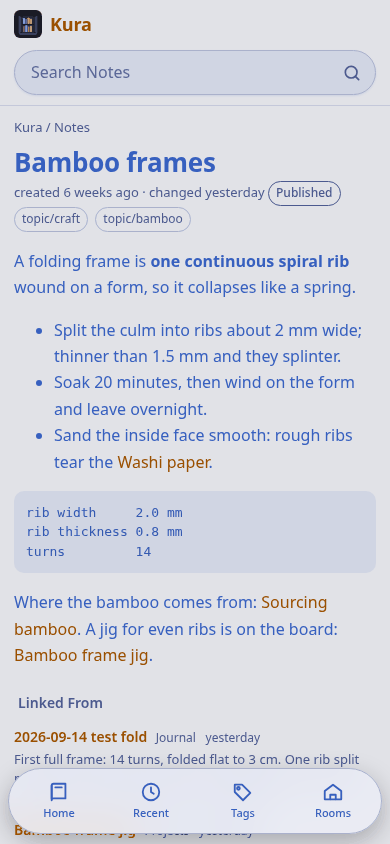
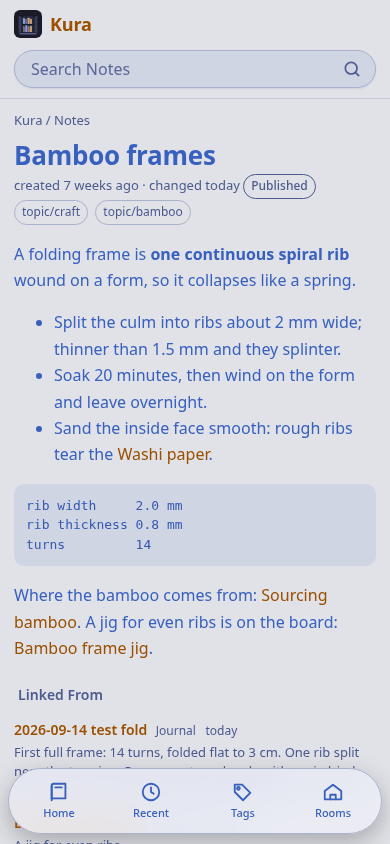
kura: README screenshots: retaken from the sample vault with the one-row header, the search field and the footer
All ten in docs/screenshots (home, note, search, tags and a note on a phone, light and dark) from
tools/screenshots against the sample vault, so they match 0.13.5. The search alt text now says the top result is
previewed beside the list. README and images only: no release.

diff --git a/README.md b/README.md
@@ -15,7 +15,7 @@ Agentically coded with [Claude Code](https://docs.anthropic.com/en/docs/claude-c
 <table>
   <tr>
     <td align="center" width="33%"><a href="docs/screenshots/kura-note-light.png"><img src="docs/screenshots/kura-note-light.png" alt="The note Bamboo frames on its own page, with its backlinks, in the light theme" width="100%"></a><br>Read a note and its backlinks</td>
-    <td align="center" width="33%"><a href="docs/screenshots/kura-search-dark.png"><img src="docs/screenshots/kura-search-dark.png" alt="Search results for bamboo, title matches first, in the dark theme" width="100%"></a><br>Search every note</td>
+    <td align="center" width="33%"><a href="docs/screenshots/kura-search-dark.png"><img src="docs/screenshots/kura-search-dark.png" alt="Search results for bamboo, title matches first and the top result previewed on the right, in the dark theme" width="100%"></a><br>Search every note</td>
     <td align="center" width="33%"><a href="docs/screenshots/kura-tags-light.png"><img src="docs/screenshots/kura-tags-light.png" alt="Every tag in the sample vault with its note count, grouped by area, topic and type, in the light theme" width="100%"></a><br>Browse every tag</td>
   </tr>
 </table>
